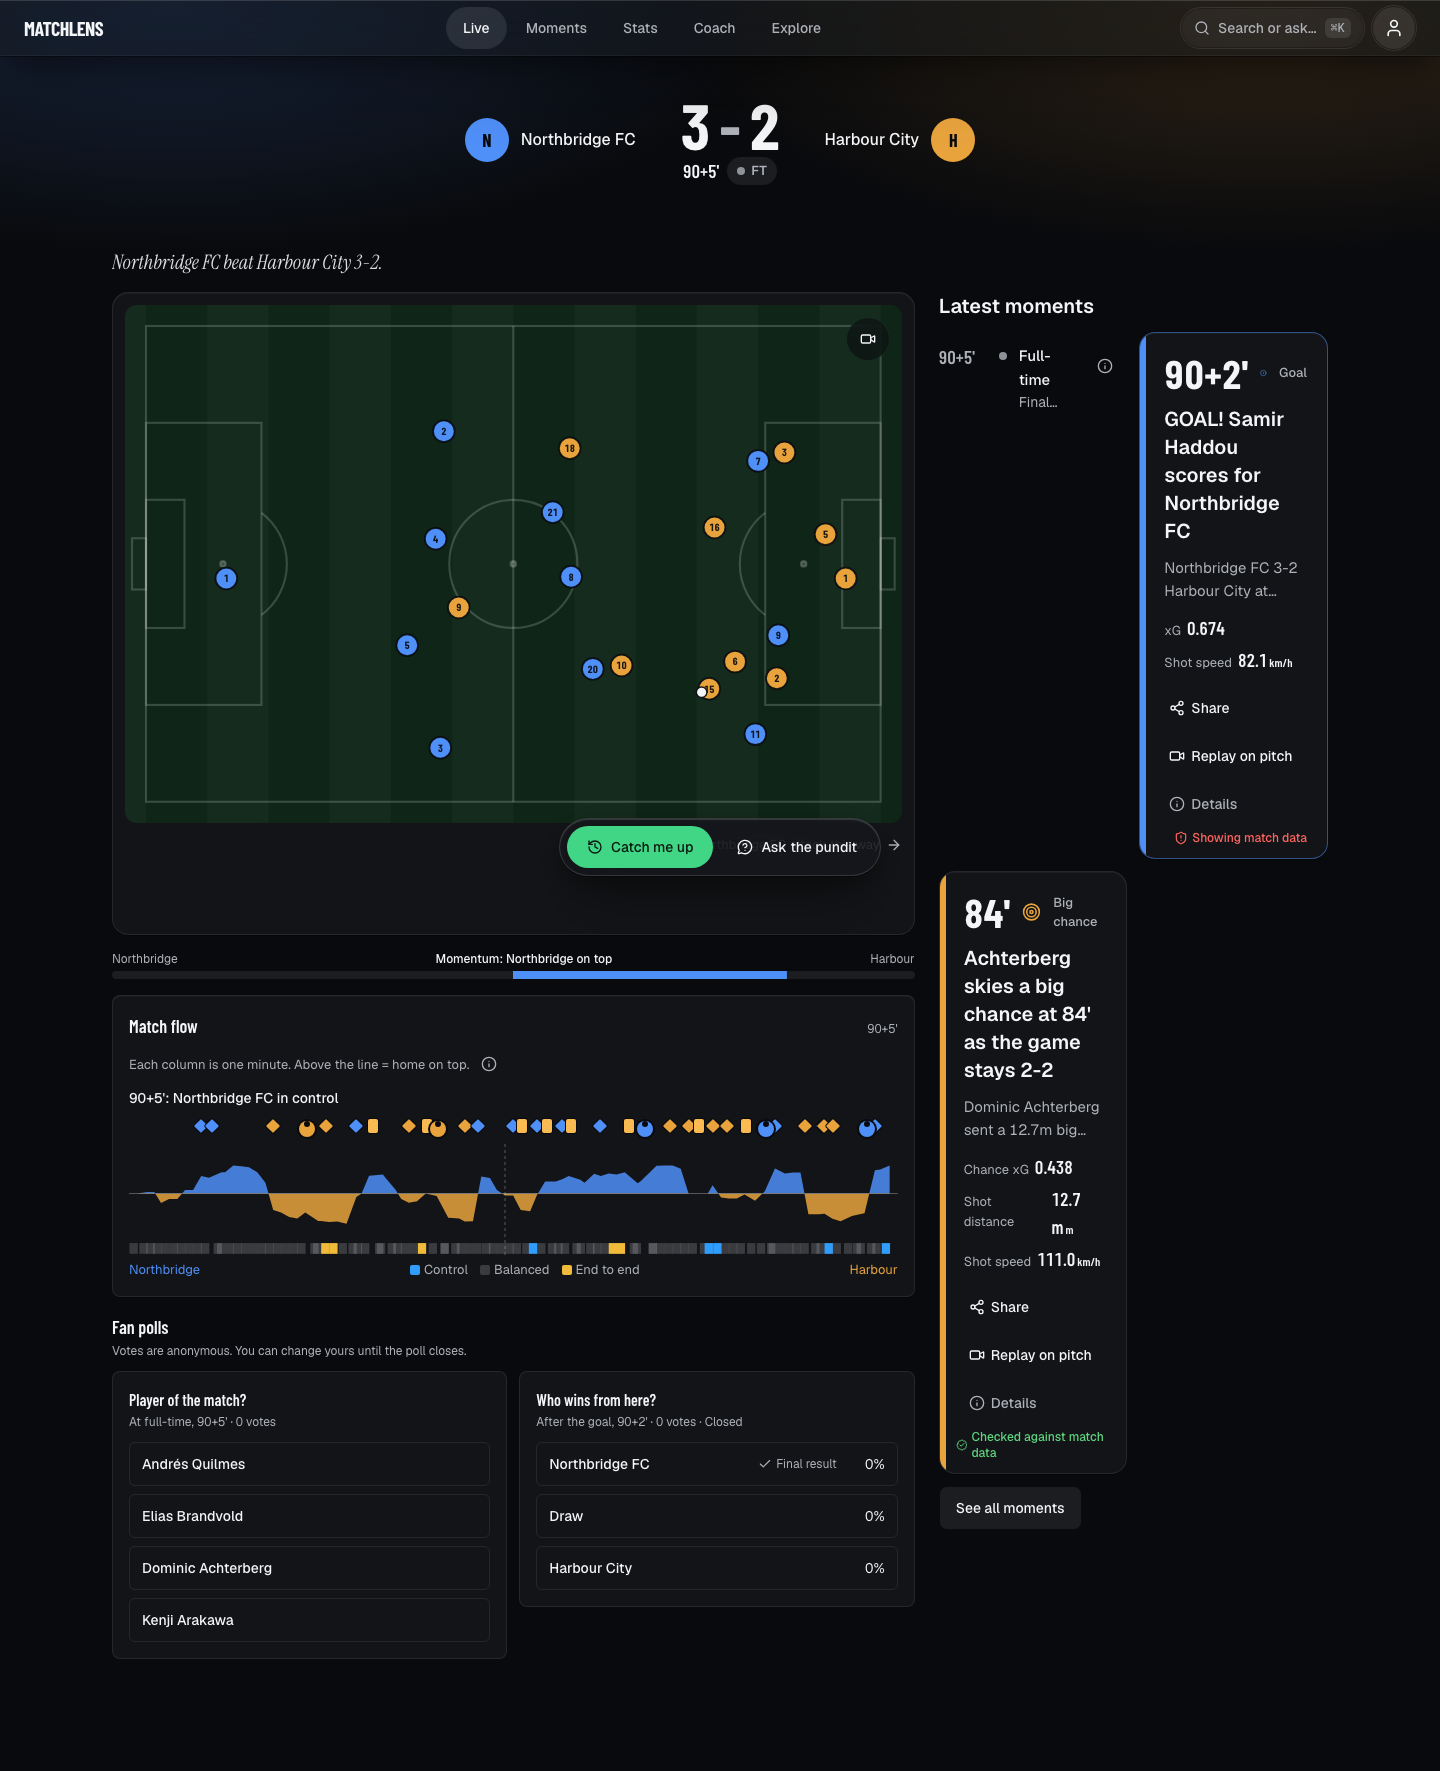
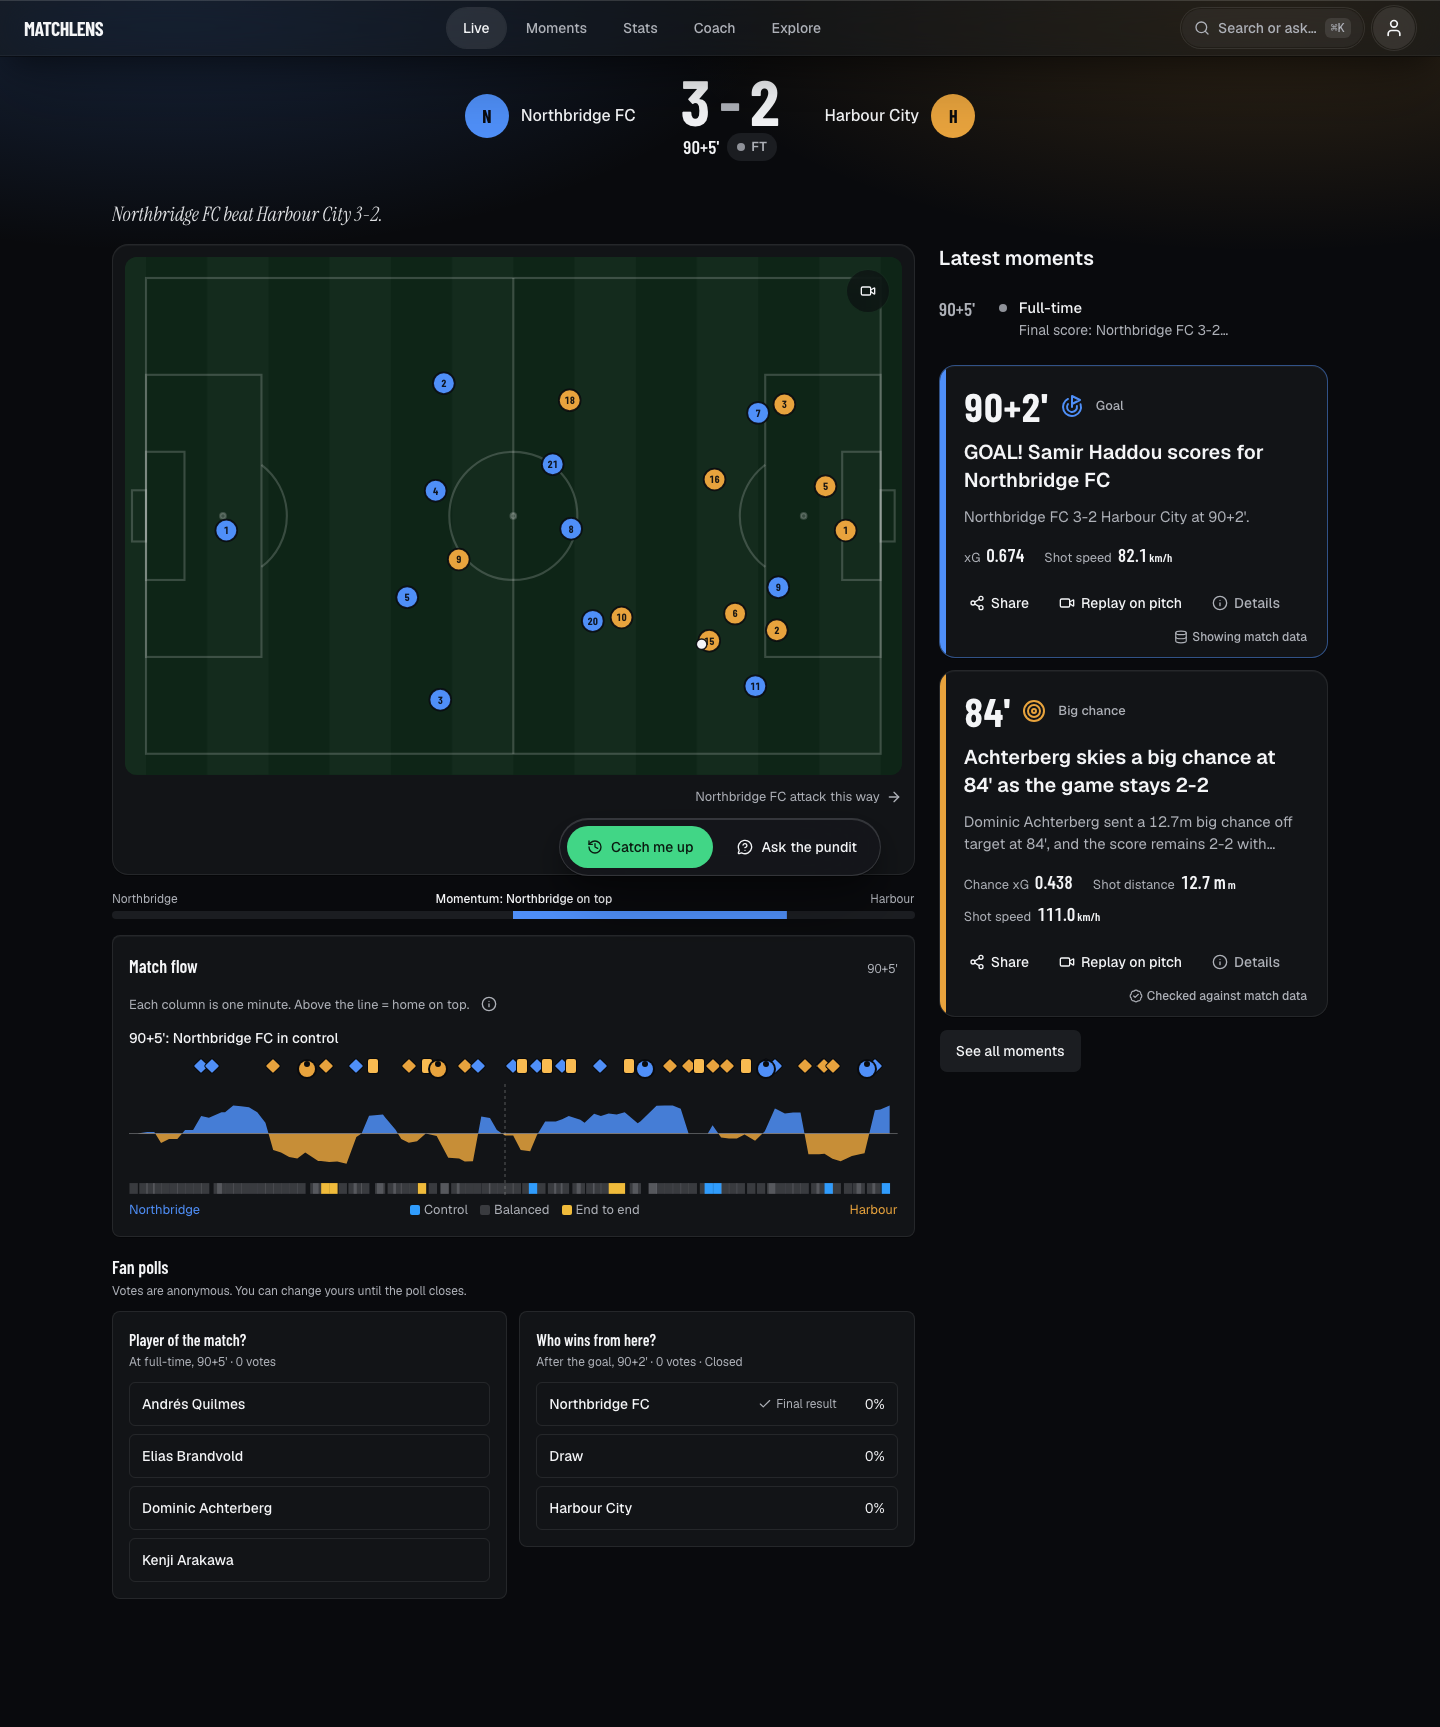
FRONTEND: phase 3 review fixes (moments list, pitch card, onboarding radio, quiet rows, toolbar)

diff --git a/frontend/src/features/companion/insight-card.tsx b/frontend/src/features/companion/insight-card.tsx
@@ -1,6 +1,6 @@
 "use client";
 
-import { CircleDot, Info, RectangleVertical, Share2, Star, Target, Video, Zap } from "lucide-react";
+import { ArrowLeftRight, ChevronRight, Goal, Info, RectangleVertical, Share2, Star, Target, Video, Zap } from "lucide-react";
 import { useRouter } from "next/navigation";
 import { toast } from "sonner";
 
@@ -52,7 +52,7 @@ function Evidence({ insightId }: { insightId: string }) {
               <span
                 className={cn(
                   "text-xs font-medium",
-                  r.verdict === "supported" ? "text-verified" : r.verdict === "contradicted" ? "text-blocked" : "text-rewritten",
+                  r.verdict === "supported" ? "text-verified" : "text-muted-foreground",
                 )}
               >
                 {copy.verdicts[r.verdict] ?? r.verdict}
@@ -94,7 +94,7 @@ const REPLAYABLE = new Set([
 /** The few moment types that deserve a full card; everything else is a quiet row. */
 export const BIG_MOMENTS = new Set(["goal", "card", "big_chance"]);
 
-const BIG_ICON: Record<string, typeof Zap> = { goal: CircleDot, card: RectangleVertical, big_chance: Target };
+const BIG_ICON: Record<string, typeof Zap> = { goal: Goal, card: RectangleVertical, big_chance: Target, substitution: ArrowLeftRight };
 
 function useMomentActions(item: FeedItem) {
   const play = useReplay((s) => s.play);
@@ -172,7 +172,7 @@ function MomentCard({ item, language }: { item: FeedItem; language: Language }) 
       <span aria-hidden className={cn("absolute inset-y-0 left-0 w-1.5", side ? sideTone[side].bg : "bg-border")} />
       <header className="flex items-center gap-3">
         <span className="font-display text-[40px] leading-10 font-bold tnum">{item.minute_label}</span>
-        <Icon aria-hidden className={cn("size-6", side ? sideTone[side].text : "text-muted-foreground")} />
+        <Icon aria-hidden className={cn("size-6", item.signal_type === "card" ? "fill-amber-400 text-amber-400" : side ? sideTone[side].text : "text-muted-foreground")} />
         <span className="text-[13px] font-medium text-muted-foreground">{signalLabels[item.signal_type] ?? item.signal_type}</span>
       </header>
       <h3 className="text-xl leading-7 font-semibold">{item.headline}</h3>
@@ -219,17 +219,30 @@ function MomentRow({ item, language }: { item: FeedItem; language: Language }) {
   const side = sideOf(meta, item.team_id);
   const [details, setDetails] = useState(false);
   return (
-    <motion.article lang={language} layout="position" initial={{ opacity: 0 }} animate={{ opacity: 1 }} className="border-b py-3 last:border-0">
-      <div className="flex items-start gap-3">
+    <motion.article lang={language} layout="position" initial={{ opacity: 0 }} animate={{ opacity: 1 }} className="border-b last:border-0">
+      <div
+        role="button"
+        tabIndex={0}
+        aria-label={`${item.minute_label} ${item.headline}. ${copy.feed.details}`}
+        onClick={() => setDetails(true)}
+        onKeyDown={(e) => {
+          if (e.key === "Enter" || e.key === " ") {
+            e.preventDefault();
+            setDetails(true);
+          }
+        }}
+        className="group flex cursor-pointer items-start gap-3 rounded-lg py-3 outline-none hover:bg-raised/60 focus-visible:ring-2 focus-visible:ring-ring"
+      >
         <span className="w-12 shrink-0 pt-px font-display text-lg leading-6 font-semibold text-muted-foreground tnum">{item.minute_label}</span>
         <span aria-hidden className={cn("mt-2 size-2 shrink-0 rounded-full", side ? sideTone[side].bg : "bg-subtle")} />
         <div className="min-w-0 flex-1">
           <p className="text-[15px] leading-6 font-medium">{item.headline}</p>
           {item.body && <p className="line-clamp-1 text-[14px] text-muted-foreground">{item.body}</p>}
         </div>
-        <Button variant="ghost" size="icon" className="size-11 shrink-0 text-muted-foreground" aria-label={copy.feed.details} onClick={() => setDetails(true)}>
-          <Info aria-hidden />
-        </Button>
+        <span aria-hidden className="mt-0.5 flex shrink-0 items-center gap-1 text-[13px] text-muted-foreground opacity-0 transition-opacity group-hover:opacity-100 group-focus-visible:opacity-100">
+          {copy.feed.details}
+          <ChevronRight className="size-4" />
+        </span>
       </div>
       <DetailsSheet item={item} open={details} onOpenChange={setDetails} />
     </motion.article>

diff --git a/frontend/src/features/live/live-pitch.tsx b/frontend/src/features/live/live-pitch.tsx
@@ -59,7 +59,7 @@ function Caption({ onAir }: { onAir: Record<string, string | null> }) {
   }
   const side = overlay && meta ? (overlay.team_id === meta.home.team_id ? "home" : overlay.team_id === meta.away.team_id ? "away" : null) : null;
   return (
-    <div className="min-h-14" aria-live="polite">
+    <div className="min-h-11" aria-live="polite">
       <AnimatePresence mode="wait" initial={false}>
         {overlay && text && (
           <motion.div
@@ -68,12 +68,12 @@ function Caption({ onAir }: { onAir: Record<string, string | null> }) {
             animate={{ opacity: 1, y: 0 }}
             exit={{ opacity: 0 }}
             transition={{ duration: 0.25 }}
-            className="flex items-center gap-3 rounded-xl bg-raised px-3 py-2"
+            className="flex items-center gap-3 rounded-xl bg-raised px-3 py-1.5"
           >
-            <span aria-hidden className={cn("h-8 w-1 shrink-0 rounded-full", side ? sideTone[side].bg : "bg-subtle")} />
-            <div className="min-w-0">
+            <span aria-hidden className={cn("h-6 w-1 shrink-0 rounded-full", side ? sideTone[side].bg : "bg-subtle")} />
+            <div className="flex min-w-0 items-baseline gap-x-3">
               <p className="truncate text-[15px] font-semibold">{text.headline}</p>
-              <p className="flex flex-wrap gap-x-3 text-[13px] text-muted-foreground">
+              <p className="flex min-w-0 gap-x-3 text-[13px] text-muted-foreground max-md:hidden">
                 {text.body && <span className="truncate">{text.body}</span>}
                 {(signalType === "momentum_swing" && !analyst ? [] : overlay.stats.slice(0, 3)).map((st) => (
                   <span key={st.label} className="tnum">
@@ -188,7 +188,7 @@ export function LivePitch() {
         </span>
       </div>
       {replay ? (
-        <p className="min-h-14 rounded-xl bg-raised px-3 py-2 text-[15px] font-semibold">
+        <p className="min-h-11 rounded-xl bg-raised px-3 py-2 text-[15px] font-semibold">
           {label}
           {playerName(meta, replay.moment.player_ids[0], true) && `, ${playerName(meta, replay.moment.player_ids[0], true)}`}
           <span className="ml-2 text-muted-foreground tnum">{replay.moment.minute_label}</span>

diff --git a/frontend/src/components/shell/onboarding.tsx b/frontend/src/components/shell/onboarding.tsx
@@ -1,5 +1,6 @@
 "use client";
 
+import { Check } from "lucide-react";
 import { useState, useSyncExternalStore } from "react";
 
 import { Button } from "@/components/ui/button";
@@ -58,20 +59,26 @@ export function OnboardingSheet() {
           <DialogTitle className="text-2xl font-semibold">{copy.onboarding.title}</DialogTitle>
           <DialogDescription>{copy.onboarding.help}</DialogDescription>
         </div>
-        <div className="grid grid-cols-3 gap-2">
+        <div role="radiogroup" aria-label={copy.onboarding.title} className="grid grid-cols-3 gap-2">
           {clubs.map((c) => (
             <button
               key={String(c.id)}
               type="button"
-              aria-pressed={clubId === c.id}
+              role="radio"
+              aria-checked={clubId === c.id}
               onClick={() => setClub(c.id)}
               className={cn(
-                "flex min-h-24 flex-col items-center justify-center gap-2 rounded-2xl p-2 text-center text-sm font-medium ring-1 transition-colors",
+                "relative flex h-28 flex-col items-center justify-start gap-2 rounded-2xl px-2 pt-4 text-center text-sm font-medium ring-1 transition-colors",
                 clubId === c.id ? "bg-raised ring-2 ring-primary" : "ring-border hover:bg-raised",
               )}
             >
               <span aria-hidden className={cn("size-9 rounded-full", c.tone)} />
-              {c.name}
+              <span className="line-clamp-2 min-h-10 leading-5">{c.name}</span>
+              {clubId === c.id && (
+                <span aria-hidden className="absolute top-1.5 right-1.5 grid size-5 place-items-center rounded-full bg-primary text-primary-foreground">
+                  <Check className="size-3.5" />
+                </span>
+              )}
             </button>
           ))}
         </div>

diff --git a/frontend/src/features/moments/moments-page.tsx b/frontend/src/features/moments/moments-page.tsx
@@ -71,12 +71,13 @@ export function MomentsPage() {
           <History aria-hidden />
           {copy.catchup.cta}
         </Button>
-        <Button variant="secondary" className="h-11 px-5" onClick={() => setRecap(true)} disabled={!meta}>
+        <Button variant="ghost" className="h-11 px-4 text-muted-foreground underline-offset-4 hover:underline" onClick={() => setRecap(true)} disabled={!meta}>
           {copy.recap.cta}
         </Button>
       </div>
-      <div className="sticky top-[var(--stack-h)] z-30 -mx-4 flex flex-col gap-2 bg-background px-4 py-2 md:-mx-6 md:px-6">
+      <div className="sticky top-[var(--stack-h)] z-30 -mx-4 flex items-center gap-3 bg-background px-4 py-2 md:-mx-6 md:px-6">
         <Segmented
+          className="min-w-0 shrink-0"
           label={copy.momentsPage.heading}
           value={view}
           onChange={setView}
@@ -86,7 +87,7 @@ export function MomentsPage() {
           ]}
         />
         {view === "highlights" && (
-          <div role="group" aria-label={copy.momentsPage.filters} className="-mx-4 flex gap-2 overflow-x-auto overscroll-x-contain px-4 md:mx-0 md:px-0">
+          <div role="group" aria-label={copy.momentsPage.filters} className="flex min-w-0 flex-1 gap-2 overflow-x-auto overscroll-x-contain [scrollbar-width:none]">
             {KINDS.map((k) => (
               <Chip key={k} active={kind === k} onClick={() => setKind(k)}>
                 {copy.momentsPage.kinds[k]}

diff --git a/frontend/src/features/companion/insight-feed.tsx b/frontend/src/features/companion/insight-feed.tsx
@@ -68,10 +68,10 @@ export function InsightFeed({
     return <p className="rounded-lg border border-dashed p-6 text-sm text-muted-foreground">{copy.feed.empty}</p>;
   }
   return (
-    <ol className={cn("flex gap-3", carousel ? "snap-x snap-mandatory overflow-x-auto overscroll-x-contain pb-2 md:grid md:snap-none md:grid-cols-2 md:overflow-visible md:pb-0 min-[1100px]:grid-cols-1" : "flex-col")} aria-label={copy.feed.heading}>
+    <ol className={cn("flex gap-3", carousel ? "snap-x snap-mandatory overflow-x-auto overscroll-x-contain pb-2 md:snap-none md:flex-col md:overflow-visible md:pb-0" : "flex-col")} aria-label={copy.feed.heading}>
       <AnimatePresence initial={false}>
         {items.map((item) => (
-          <li key={item.insight_id} className={cn(carousel && "w-[85%] shrink-0 snap-start md:w-auto")}>
+          <li key={item.insight_id} className={cn(carousel && "w-[85%] shrink-0 snap-start md:w-full")}>
             <InsightCard item={item} language={language} />
           </li>
         ))}

diff --git a/frontend/src/features/companion/match-centre.tsx b/frontend/src/features/companion/match-centre.tsx
@@ -25,7 +25,7 @@ import { MatchPulse } from "./match-pulse";
 export function MatchCentre() {
   const analyst = useProfile((s) => s.mode === "analyst");
   return (
-    <div className="mx-auto flex max-w-7xl flex-col gap-4 px-4 pt-4 pb-44 min-[1100px]:pb-28 md:px-6 md:pt-6 xl:px-8">
+    <div className="mx-auto flex max-w-7xl flex-col gap-4 px-4 pt-4 pb-44 min-[1100px]:pb-32 md:px-6 md:pt-6 xl:px-8">
       <h1 className="sr-only">{copy.nav.live}</h1>
       <StoryLine />
       <div className="grid items-start gap-4 min-[1100px]:grid-cols-12 min-[1100px]:gap-6">

diff --git a/frontend/src/components/shell/match-header.tsx b/frontend/src/components/shell/match-header.tsx
@@ -148,7 +148,7 @@ export function MatchHeader({ hero }: { hero: boolean }) {
       {/* Collapsed state */}
       <motion.div
         style={{ opacity: barOpacity }}
-        className="absolute inset-x-0 top-0 mx-auto flex h-[var(--hdr-min)] max-w-7xl items-center justify-center gap-3 px-4 pr-24 md:pr-4"
+        className="absolute inset-x-0 top-0 mx-auto flex h-[var(--hdr-min)] max-w-7xl items-center justify-center gap-3 px-4 pr-28 md:pr-4"
       >
         {meta && home && away && hs !== null && as !== null ? (
           <>
